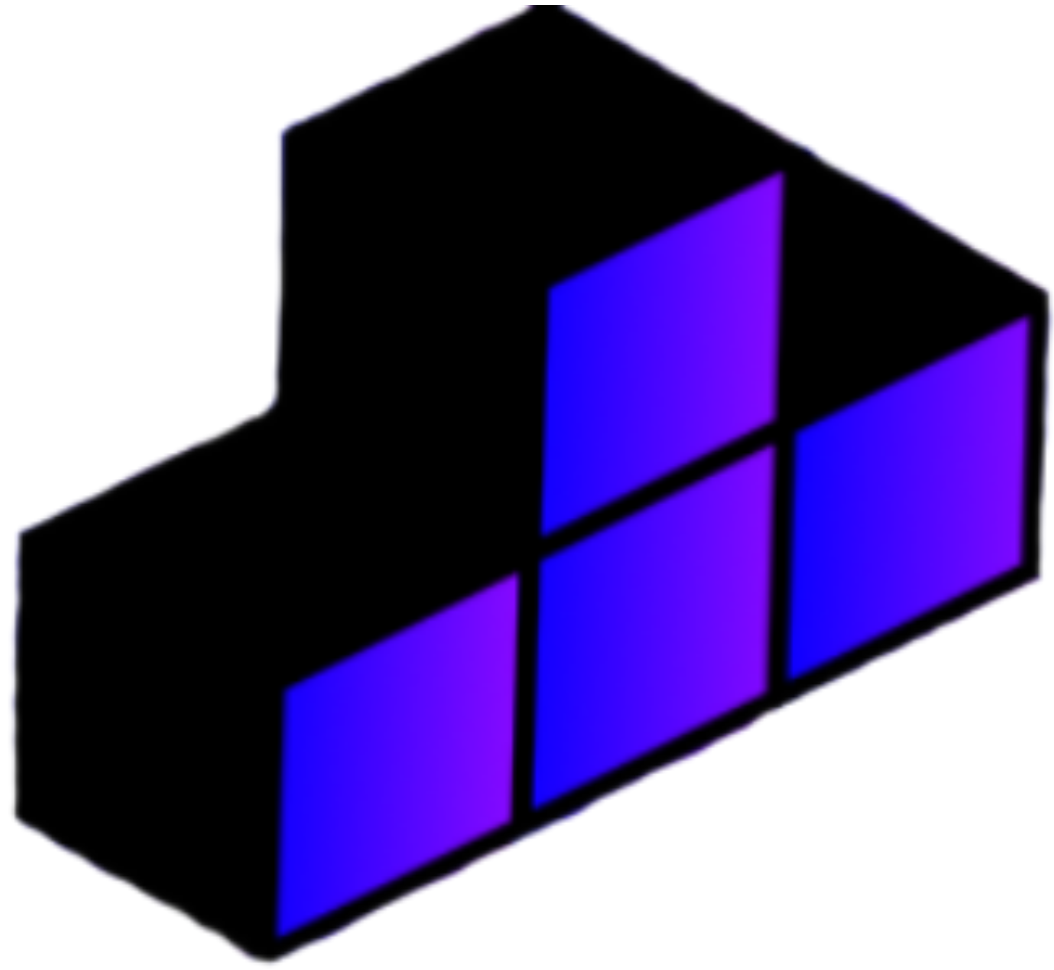
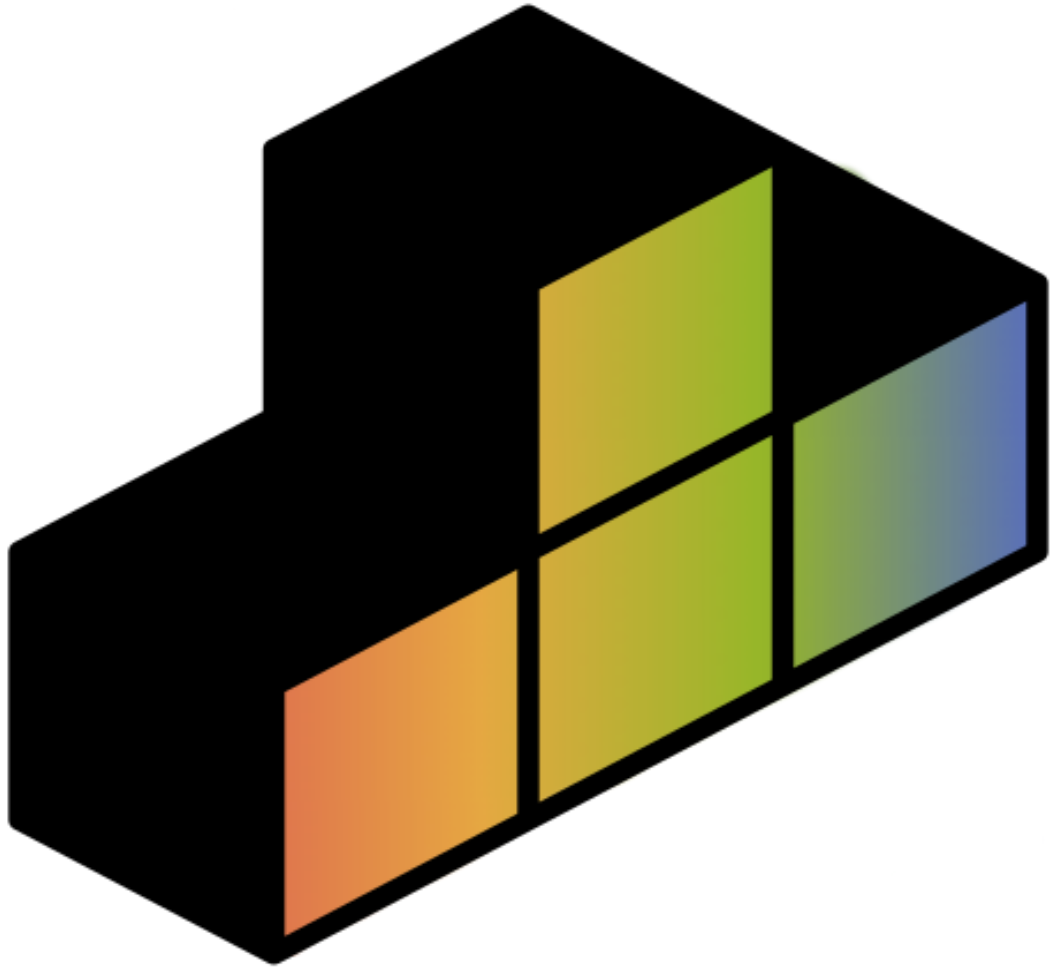
"Retro Look"

diff --git a/res/js/Tetromino.js b/res/js/Tetromino.js
@@ -6,6 +6,13 @@ import {
   speedOftetromino,
   heightOfArena,
   widthOfArena,
+  colorOfSmashBoy,
+  colorOfHero,
+  colorOfEarl,
+  colorOfRicky,
+  colorOfCleevland,
+  colorOfRhodeIsland,
+  colorOfTeewee
 } from "./config.js";
 import { redrawShapes } from "./main.js";
 class Tetromino {
@@ -105,7 +112,7 @@ class Tetromino {
         //square
         if (cell === 1) {
           this.square = false;
-          ctx.fillStyle = "#ffa500";
+          ctx.fillStyle = colorOfSmashBoy;
           const shapeX = this.x + columnIndex;
           const shapeY = this.y + rowIndex;
 
@@ -123,7 +130,7 @@ class Tetromino {
 
         //T
         if (cell === 2) {
-          ctx.fillStyle = "#7C2AC9";
+          ctx.fillStyle = colorOfTeewee;
           const shapeX = this.x + columnIndex;
           const shapeY = this.y + rowIndex;
           if (!this.isFalling) arena[shapeY][shapeX] = cell;
@@ -141,7 +148,7 @@ class Tetromino {
 
         if (cell === 3) {
           this.line = false;
-          ctx.fillStyle = "#FFA31A";
+          ctx.fillStyle = colorOfHero;
           const shapeX = this.x + columnIndex;
           const shapeY = this.y + rowIndex;
           if (!this.isFalling) arena[shapeY][shapeX] = cell;
@@ -157,7 +164,7 @@ class Tetromino {
 
         //J
         if (cell === 4) {
-          ctx.fillStyle = "#B51783";
+          ctx.fillStyle = colorOfRicky;
           const shapeX = this.x + columnIndex;
           const shapeY = this.y + rowIndex;
           if (!this.isFalling) arena[shapeY][shapeX] = cell;
@@ -173,7 +180,7 @@ class Tetromino {
 
         //L
         if (cell === 5) {
-          ctx.fillStyle = "#FF0000";
+          ctx.fillStyle = colorOfEarl;
           const shapeX = this.x + columnIndex;
           const shapeY = this.y + rowIndex;
           if (!this.isFalling) arena[shapeY][shapeX] = cell;
@@ -189,7 +196,7 @@ class Tetromino {
 
         //S
         if (cell === 6) {
-          ctx.fillStyle = "#FFBF00";
+          ctx.fillStyle = colorOfRhodeIsland;
           const shapeX = this.x + columnIndex;
           const shapeY = this.y + rowIndex;
           if (!this.isFalling) arena[shapeY][shapeX] = cell;
@@ -204,7 +211,7 @@ class Tetromino {
 
         //Z
         if (cell === 7) {
-          ctx.fillStyle = "#FFBF00";
+          ctx.fillStyle = colorOfCleevland;
           const shapeX = this.x + columnIndex;
           const shapeY = this.y + rowIndex;
           if (!this.isFalling) arena[shapeY][shapeX] = cell;

diff --git a/res/css/style.css b/res/css/style.css
@@ -7,7 +7,7 @@ body {
 
 p {
   font-size: 20px;
-  background: linear-gradient(rgb(0, 45, 245), rgb(255, 0, 234));
+  background: linear-gradient(#DE6552, #E6A942,#97B729,#586EC1);
   -webkit-background-clip: text;
   -webkit-text-fill-color: transparent;
 }
@@ -22,11 +22,11 @@ canvas {
   width: 400px;
   height: 800px;
   border: 2px solid;
-  border-image: linear-gradient(rgb(0, 45, 245), rgb(255, 0, 234)) 1;
+  border-image: linear-gradient(#DE6552, #E6A942,#97B729,#586EC1) 1;
 }
 #start {
   font-family: "Press Start 2P";
-  background: linear-gradient(rgb(0, 45, 245), rgb(255, 0, 234));
+  background: linear-gradient(#DE6552, #E6A942,#97B729,#586EC1);
   -webkit-background-clip: text;
   -webkit-text-fill-color: transparent;
   background-color: transparent;
@@ -38,7 +38,7 @@ canvas {
 }
 #restart {
   font-family: "Press Start 2P";
-  background: linear-gradient(rgb(0, 45, 245), rgb(255, 0, 234));
+  background: linear-gradient(#DE6552, #E6A942,#97B729,#586EC1);
   -webkit-background-clip: text;
   -webkit-text-fill-color: transparent;
   background-color: transparent;
@@ -49,9 +49,8 @@ canvas {
   border: 0px solid transparent;
 }
 
-#start:hover,
-#restart:hover {
-  background: linear-gradient(rgb(255, 0, 234), rgb(0, 45, 245));
+#start:hover, #restart:hover {
+  background: linear-gradient(#586EC1,#97B729,#E6A942,#DE6552);
   -webkit-background-clip: text;
   -webkit-text-fill-color: transparent;
 }
@@ -74,3 +73,4 @@ canvas {
   background-repeat: no-repeat;
   background-size: 80px;
 }
+

diff --git a/res/js/config.js b/res/js/config.js
@@ -5,10 +5,20 @@ const bottom = 53;
 const cellSize = 15;
 
 //the speed of falling tetromino
-const speedOftetromino = 100;
+const speedOftetromino = 50;
 
 //height and width of the arena in console.
 const heightOfArena = 55;
 const widthOfArena = 40;
 
-export { bottom, cellSize, speedOftetromino, widthOfArena, heightOfArena };
+//colors of tetromino
+
+const colorOfSmashBoy = "#97B729";  // 
+const colorOfTeewee = "#9F67C6";   //T --- purple
+const colorOfHero = "#B69F5D";     //cyan
+const colorOfRicky = "#DE6552";  // L  red 
+const colorOfEarl = "#586EC1";   // L  blue
+const colorOfRhodeIsland = "#41c9b1"; //green
+const colorOfCleevland = "#E6A942";   //yellow
+
+export { bottom, cellSize, speedOftetromino, widthOfArena, heightOfArena, colorOfSmashBoy,colorOfTeewee,colorOfHero,colorOfRicky,colorOfEarl,colorOfRhodeIsland,colorOfCleevland };

diff --git a/res/js/shape.js b/res/js/shape.js
@@ -21,28 +21,28 @@ const tetrominoShape = {
     [3],
   ],
 
-  //J - blue ricky
+  //J - ricky
   J: [
     [4, 4, 4],
     [0, 0, 4],
   ],
 
-  //L - red ricky
+  //L - Earl
   L: [
     [5, 5, 5],
     [5, 0, 0],
   ],
 
-  //S - Rhode Island Z
+  //S - Rhode Island 
   S: [
     [0, 6, 6],
     [6, 6, 0],
   ],
 
-  //Z - Cleevland Z 
+  //Z - Cleevland  
   Z: [
     [7, 7, 0],
     [0, 7, 7],
   ],
-};
+}; 
 export { tetrominoShape };
